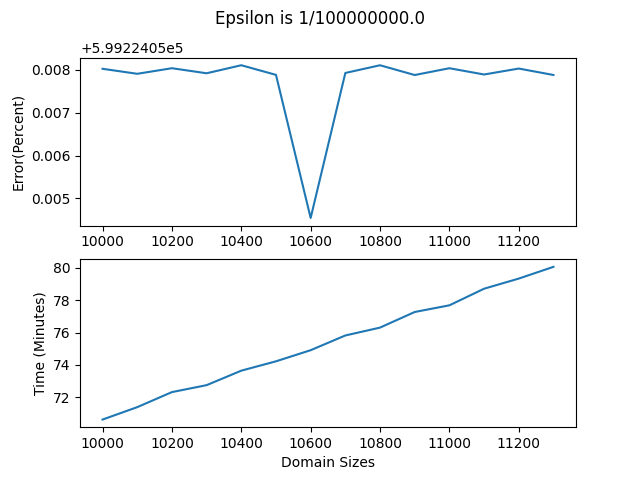
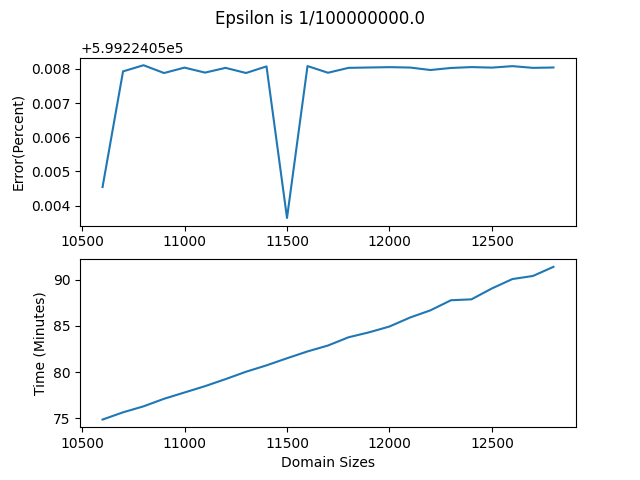
results from last testing period and fixed bug found in code

diff --git a/non-local-curvature/characteristic_function.py b/non-local-curvature/characteristic_function.py
@@ -87,7 +87,7 @@ class chi:
 
 
                 theta = np.arctan2(self.start[1], self.start[0])
-                for angle in range(0,n+1):
+                for angle in range(-n,n+1):
                     if angle != 0 and angle != n:
                         p_1 = ((angle*theta)/(100*n)) + theta 
                     elif angle == n:

diff --git a/non-local-curvature/nonLocalCurveEval.py b/non-local-curvature/nonLocalCurveEval.py
@@ -22,7 +22,7 @@ class Eval:
             epsilon = 100
             for i in range(5,10):
                 time1 = time.time()
-                epsilon = 10**i
+                epsilon = 10**(i)
                 self.val = self.eval(epsilon)
                 time2 = time.time()
                 self.actual = -5.24411510858423962093

diff --git a/non-local-curvature/non-local-curve.py b/non-local-curvature/non-local-curve.py
@@ -13,7 +13,7 @@ def main(random=False):
     par = parser_yam.parser(file_path="../config.yaml")
     
     for i in range(1,100):
-        n = 100*i
+        n = 1000*i
         if not random:
             char_func = chi.chi(par.args,n)
         else:
